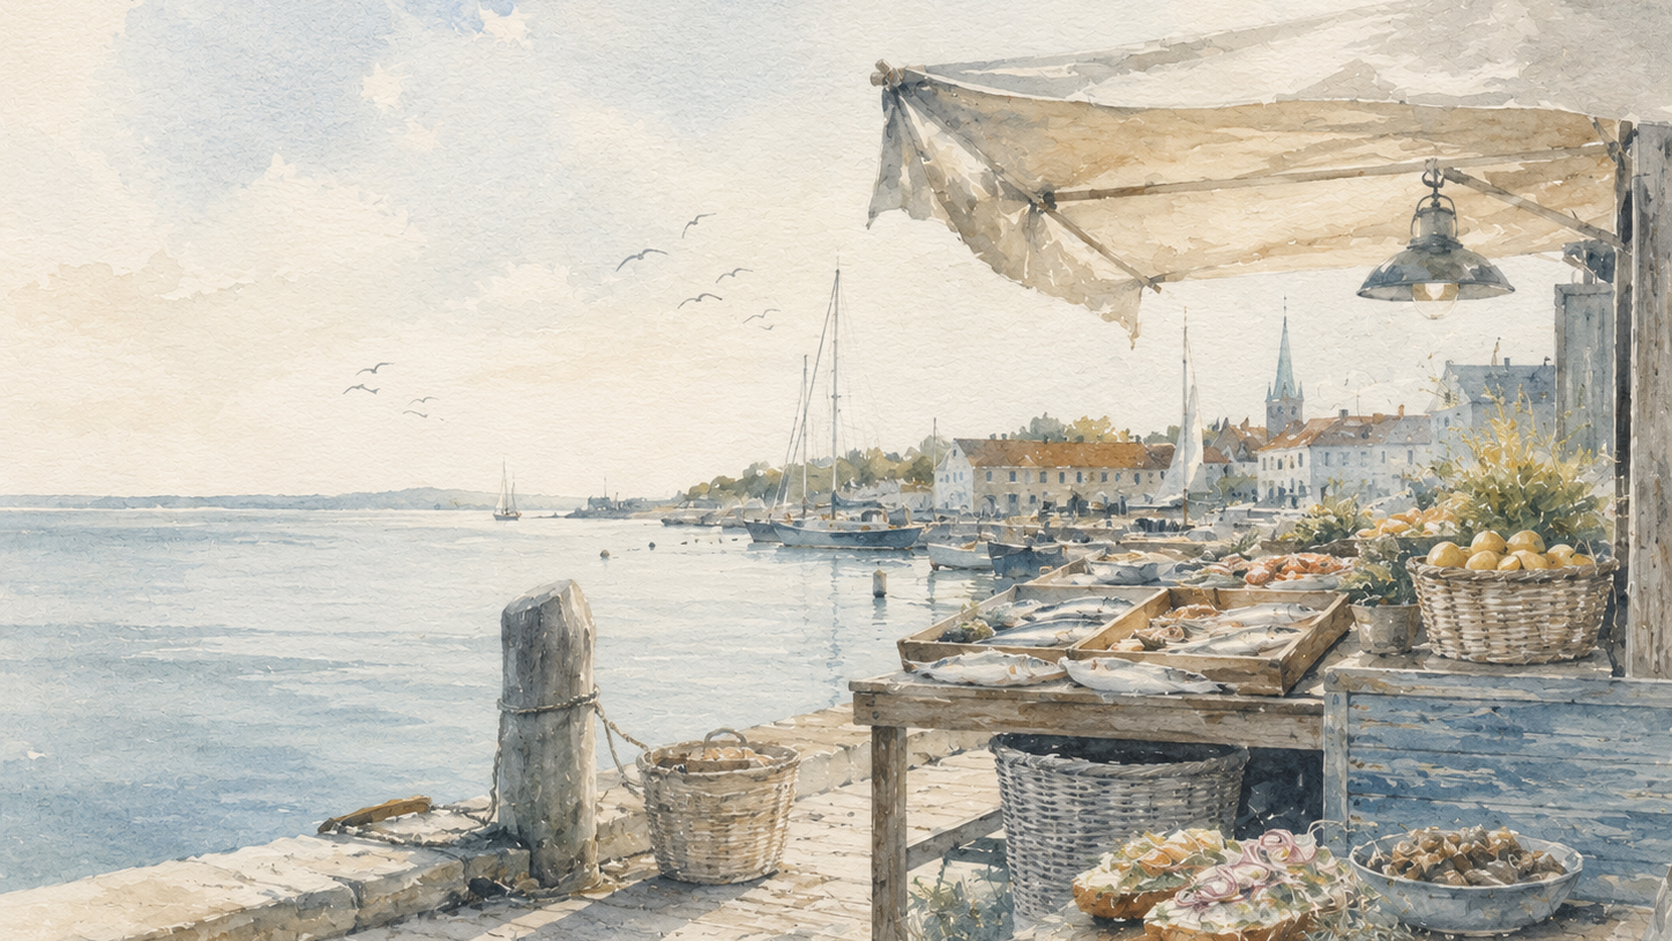
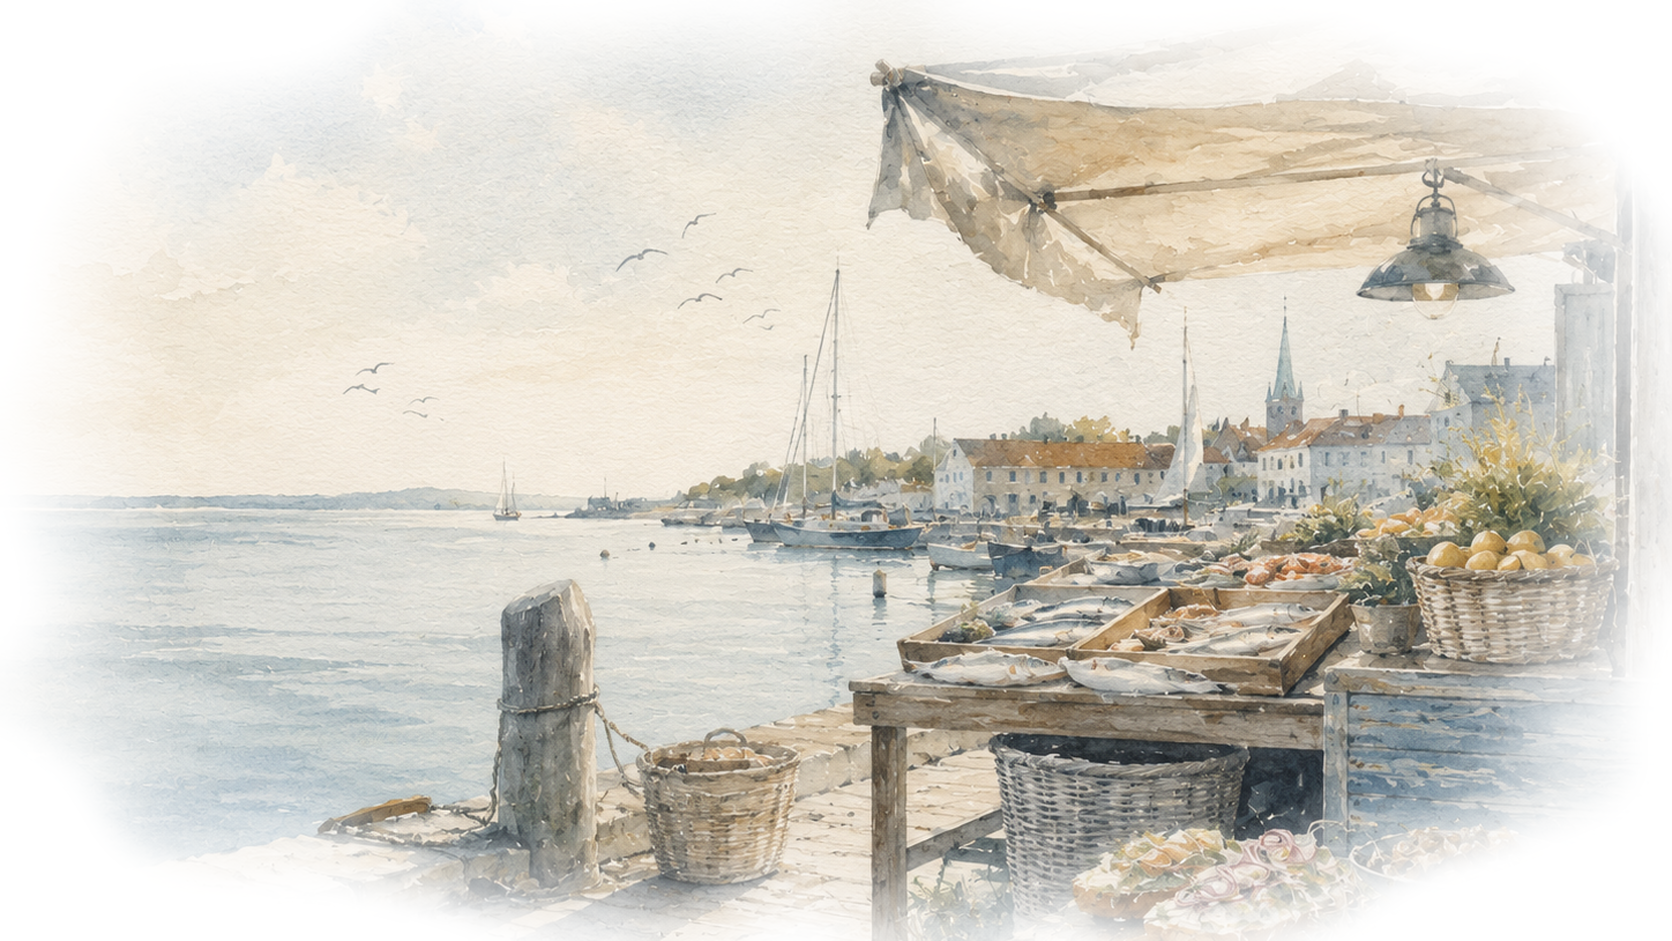
feat: add orientation memories and soft world imagery

diff --git a/src/App.svelte b/src/App.svelte
@@ -1688,15 +1688,12 @@
                   <header class="contents-head">
                     <div>
                       <p class="eyebrow">Orientierung</p>
-                      <h1>Inhaltsverzeichnis</h1>
+                      <h1>Orientierung</h1>
                       <p class="contents-deck">Deine Reise auf einen Blick. Ruhig geordnet, damit du schnell findest, was dich unterwegs begleitet.</p>
                     </div>
-                    {#if curatedAccentFor(editorialWorld?.id, 'contents')}
-                      <img class="curated-world-accent contents-accent" src={curatedAccentFor(editorialWorld?.id, 'contents') ?? ''} alt="" aria-hidden="true" />
-                    {/if}
                   </header>
 
-                  <div class="contents-list" aria-label="Inhaltsübersicht">
+                  <div class="contents-list" aria-label="Orientierung">
                     {#each sections as section}
                       {@const tocPages = section.pages.filter((page) => page.type !== 'cover' && page.type !== 'contents')}
                       {#if tocPages.length}
@@ -1722,7 +1719,7 @@
                   <header class="notes-head">
                     <div>
                       <p class="eyebrow">Erinnerungen</p>
-                      <h1>Notizen</h1>
+                      <h1>Erinnerungen</h1>
                       <p class="notes-deck">Ideen, Eindrücke und kleine Beobachtungen. Genug Struktur für Orientierung – und genug Freiheit für das, was unterwegs entsteht.</p>
                     </div>
                     {#if curatedAccentFor(editorialWorld?.id, 'notes')}
@@ -1730,9 +1727,9 @@
                     {/if}
                   </header>
 
-                  <div class="notes-layout" aria-label="Notizbereiche">
+                  <div class="notes-layout" aria-label="Erinnerungsbereiche">
                     <section class="notes-main" aria-label="Freie Notizen">
-                      <span>Freie Notizen</span>
+                      <span>Freie Erinnerungen</span>
                       <div class="notes-lines" aria-hidden="true"></div>
                     </section>
                     <aside class="notes-side">

diff --git a/src/styles/book-utility-pages.css b/src/styles/book-utility-pages.css
@@ -1,6 +1,6 @@
-/* Build 037 · Contents + Notes
-   Curated Accent is deliberately weaker than Curated Hero. It belongs to the
-   active Editorial World, never to project content, and yields space first. */
+/* Build 038 · Orientierung + Erinnerungen
+   Orientierung is deliberately image-free. Erinnerungen keeps one subordinate
+   world-owned Curated Accent. World imagery uses soft watercolor alpha edges. */
 .a5-page.contents-page,
 .a5-page.notes-page {
   background: #fff;
@@ -19,11 +19,13 @@
 .contents-head,
 .notes-head {
   display: grid;
-  grid-template-columns: minmax(0, 1fr) 104px;
   gap: 20px;
   align-items: start;
   margin-bottom: 20px;
 }
+
+.contents-head { grid-template-columns: minmax(0, 1fr); }
+.notes-head { grid-template-columns: minmax(0, 1fr) 104px; }
 
 .contents-head .eyebrow,
 .notes-head .eyebrow {
@@ -60,7 +62,6 @@
   filter: saturate(.88) contrast(.96);
 }
 
-.contents-accent { align-self: start; }
 .notes-accent { height: 76px; }
 
 .contents-list {
@@ -205,8 +206,7 @@
 
 .a5-page.notes-page .page-companion { max-height: 58px; }
 
-/* Contents is companion-free by contract. Curated Accent is the only world
-   image and remains clearly subordinate to navigation. */
+/* Orientierung is companion-free and image-free by contract. */
 .a5-page.contents-page .editorial-footer,
 .a5-page.notes-page .editorial-footer {
   position: relative;
@@ -215,5 +215,6 @@
 
 @media (max-height: 720px) {
   .curated-world-accent { height: 62px; }
-  .contents-head, .notes-head { grid-template-columns: minmax(0, 1fr) 94px; gap: 16px; margin-bottom: 14px; }
+  .contents-head { grid-template-columns: minmax(0, 1fr); gap: 16px; margin-bottom: 14px; }
+  .notes-head { grid-template-columns: minmax(0, 1fr) 94px; gap: 16px; margin-bottom: 14px; }
 }

diff --git a/src/lib/workspace.test.ts b/src/lib/workspace.test.ts
@@ -7,7 +7,7 @@ const pages: StudioPage[] = [
   { id: 'bergen', order: 10, type: 'destination', role: 'destination', title: 'Bergen', content: 'bergen.md', layout: 'destination-standard', journeyStage: 'bergen' },
   { id: 'light', order: 30, type: 'knowledge', role: 'journey_knowledge', title: 'Licht', content: 'light.md', layout: 'knowledge-light' },
   { id: 'on1', order: 50, type: 'workflow', role: 'workflow', title: 'ON1 Photo RAW', content: 'on1.md', layout: 'workflow-on1' },
-  { id: 'notes', order: 90, type: 'notes', role: 'notes', title: 'Notizen', content: 'notes.md', layout: 'notes-standard' },
+  { id: 'notes', order: 90, type: 'notes', role: 'notes', title: 'Erinnerungen', content: 'notes.md', layout: 'notes-standard' },
   { id: 'closing', order: 99, type: 'closing', role: 'closing_memory', title: 'Abschluss', content: 'closing.md', layout: 'closing-memory' }
 ];
 

diff --git a/src/lib/workspace.ts b/src/lib/workspace.ts
@@ -66,7 +66,7 @@ const sectionMeta: Record<WorkspaceSectionId, Omit<WorkspaceSection, 'pages'>> =
   memories: {
     id: 'memories',
     label: 'Erinnerungen',
-    description: 'Notizen und Abschluss'
+    description: 'Erinnerungen und Abschluss'
   }
 };
 
@@ -150,7 +150,7 @@ export function pageRoleLabel(role: PageRole | undefined): string {
     case 'destination': return 'Reiseziel';
     case 'journey_knowledge': return 'Reisebegleitung';
     case 'workflow': return 'Fotografie-Workshop';
-    case 'notes': return 'Notizen';
+    case 'notes': return 'Erinnerungen';
     case 'closing_memory': return 'Abschluss';
     default: return '–';
   }

diff --git a/src/lib/project.ts b/src/lib/project.ts
@@ -184,7 +184,7 @@ const previewCopy: Record<PageType, PreviewContent> = {
   },
   contents: {
     eyebrow: 'Orientierung',
-    heading: 'Inhaltsverzeichnis',
+    heading: 'Orientierung',
     body: 'Eine statische Vorschau der geplanten Seitenstruktur.'
   },
   planning: {
@@ -214,7 +214,7 @@ const previewCopy: Record<PageType, PreviewContent> = {
   },
   notes: {
     eyebrow: 'Field Notes',
-    heading: 'Notizen',
+    heading: 'Erinnerungen',
     body: 'Raum für Beobachtungen, Motive und Erinnerungen.'
   },
   closing: {

diff --git a/src/lib/curated-accents.ts b/src/lib/curated-accents.ts
@@ -15,7 +15,10 @@ const CURATED_ACCENTS_BY_WORLD: Partial<Record<string, Record<CuratedAccentKey, 
   baltic: BALTIC_CURATED_ACCENTS
 };
 
-export function curatedAccentFor(worldId: string | undefined, key: CuratedAccentKey): string | null {
+export function curatedAccentFor(
+  worldId: string | undefined,
+  key: CuratedAccentKey
+): string | null {
   if (!worldId) return null;
   return CURATED_ACCENTS_BY_WORLD[worldId]?.[key] ?? null;
 }

diff --git a/src-tauri/src/lib.rs b/src-tauri/src/lib.rs
@@ -905,12 +905,12 @@ fn create_nls_project(parent_path: String, title: String, editorial_world_id: St
     let pages = vec![
         starter_page("page-cover", 1, "cover", "front_matter", title, "content/pages/001-cover.md", "cover", None),
         starter_page("page-welcome", 2, "welcome", "front_matter", "Willkommen", "content/pages/002-welcome.md", "welcome", None),
-        starter_page("page-contents", 3, "contents", "front_matter", "Inhaltsverzeichnis", "content/pages/003-contents.md", "contents", None),
+        starter_page("page-contents", 3, "contents", "front_matter", "Orientierung", "content/pages/003-contents.md", "contents", None),
         starter_page("page-planning", 4, "planning", "journey_planning", "Reiseplanung", "content/pages/004-planning.md", "planning", None),
         starter_page("page-light", 10, "knowledge", "journey_knowledge", "Licht", "content/pages/010-light.md", "light", Some("photography_light")),
         starter_page("page-weather", 11, "knowledge", "journey_knowledge", "Wetter", "content/pages/011-weather.md", "weather", Some("travel_weather")),
         starter_page("page-workflow", 20, "workflow", "workflow", "Fotografie-Workshop", "content/pages/020-workflow.md", "workflow", None),
-        starter_page("page-notes", 30, "notes", "notes", "Notizen", "content/pages/030-notes.md", "notes", None),
+        starter_page("page-notes", 30, "notes", "notes", "Erinnerungen", "content/pages/030-notes.md", "notes", None),
         starter_page("page-closing", 40, "closing", "closing_memory", "Die Reise bleibt", "content/pages/040-closing.md", "closing", None),
     ];
     for page in &pages {

diff --git a/APPLY-DROPIN.md b/APPLY-DROPIN.md
@@ -1,48 +1,53 @@
-# APPLY DROP-IN — Northern Lines Studio Build 037
+# APPLY DROP-IN — Northern Lines Studio Build 038
 
-Build 037 implements the approved **Inhaltsverzeichnis** and **Notizen** grammar plus fixed world-specific **Curated Accents** for Fjord and Ostsee.
+Build 038 introduces **Orientierung**, **Erinnerungen** and the approved soft watercolor edge treatment for curated Fjord/Ostsee imagery.
 
 ## 1. Branch
 
 ```bash
 cd ~/Projekte/northern-lines-studio
-git checkout -b feat/build-037-contents-notes-curated-accents
+git checkout -b feat/build-038-orientation-memories-soft-world-imagery
 ```
 
 ## 2. Dry Run
 
 ```bash
 rsync -avn \
-  ~/Downloads/Northern-Lines-Studio-Build-037-Contents-Notes-Curated-Accents-DropIn/ \
+  ~/Downloads/Northern-Lines-Studio-Build-038-Orientation-Memories-Soft-World-Imagery-DropIn/ \
   ~/Projekte/northern-lines-studio/
 ```
 
-No intentional deletions are required.
+Build 038 intentionally removes the obsolete Orientation accent files. Remove them after the dry run:
+
+```bash
+rm -f ~/Projekte/northern-lines-studio/public/design-library/worlds/fjord/curated-accents/contents.png
+rm -f ~/Projekte/northern-lines-studio/public/design-library/worlds/baltic/curated-accents/contents.png
+```
 
 ## 3. Apply
 
 ```bash
 rsync -av \
-  ~/Downloads/Northern-Lines-Studio-Build-037-Contents-Notes-Curated-Accents-DropIn/ \
+  ~/Downloads/Northern-Lines-Studio-Build-038-Orientation-Memories-Soft-World-Imagery-DropIn/ \
   ~/Projekte/northern-lines-studio/
 ```
 
-## 4. Build-specific Consistency Gate
+## 4. Build-specific gate
 
 ```bash
 cd ~/Projekte/northern-lines-studio
-pnpm consistency:build-037-utility-pages
+pnpm run consistency:build-038
 ```
 
 Expected:
 
 ```text
-Build 037 Contents & Notes Consistency Gate: PASS
+Build 038 Orientation & Memories Consistency Gate: PASS
 ```
 
-`PASS` must appear green.
+`PASS` must appear in green.
 
-## 5. Full Gates
+## 5. Full gates
 
 ```bash
 pnpm consistency
@@ -53,50 +58,46 @@ cargo test --manifest-path src-tauri/Cargo.toml
 git diff --check
 ```
 
-## 6. Install macOS App
+## 6. Build & install macOS app
 
 ```bash
 cd ~/Projekte/northern-lines-studio
 ./scripts/install-macos-app.sh
 ```
 
-Target:
+Expected target:
 
 ```text
 /Applications/Northern Lines Studio.app
 ```
 
-## 7. Real-world / Visual Test
+## 7. Visual real-world test — STOP/GO
 
-Test **both Fjord and Ostsee**.
+### Orientierung
+1. Open Fjord → **Orientierung**.
+2. Confirm there is **no image** on this page.
+3. Confirm title, groups and page numbers are calm and fully readable.
+4. Switch to Ostsee: World typography/accent changes, but no image appears.
 
-### Inhaltsverzeichnis
+### Erinnerungen
+1. Open **Erinnerungen** in Fjord.
+2. Confirm the Curated Accent has a soft watercolor edge and opens into white space.
+3. Confirm the writing area remains the dominant surface.
+4. Switch to Ostsee and confirm the world-owned image changes while using the same soft-edge treatment.
 
-- page surface is literal white;
-- page list is automatically derived from the current Travelbook;
-- section hierarchy and page numbers remain the visual priority;
-- Curated Accent appears small in the upper-right area and is clearly subordinate;
-- there is no image control in the Inspector;
-- no Companion appears on Contents;
-- Footer stays protected.
+### Curated Heroes
+1. Check one Interest Page and the Fotografie-Workshop in Fjord and Ostsee.
+2. Confirm the previously approved size/flow is unchanged.
+3. Confirm Ostsee no longer reads as a hard rectangular image tile; its edge language matches Fjord.
+4. Confirm Companion and Footer are unchanged.
 
-### Notizen
+**STOP** on clipping, hard tile edges, wrong visible page names, or any Companion/Footer displacement.  
+**GO** only after visual approval.
 
-- page surface is literal white;
-- large main writing area remains dominant;
-- secondary areas are exactly `Schnellnotiz`, `Ideen`, `Skizze`;
-- Curated Accent remains small and secondary;
-- Companion and Footer do not overlap any writing area;
-- there is no image control in the Inspector.
-
-Switch Worlds and confirm only the accent expression changes; structure and semantics remain identical.
-
-**Wait for visual approval before merge.**
-
-## 8. Commit & Push
+## 8. Commit & push
 
 ```bash
 git add .
-git commit -m "feat: add contents and notes curated accents"
-git push -u origin feat/build-037-contents-notes-curated-accents
+git commit -m "feat: add orientation memories and soft world imagery"
+git push -u origin feat/build-038-orientation-memories-soft-world-imagery
 ```

diff --git a/docs/BUILD-038-ORIENTATION-MEMORIES-SOFT-WORLD-IMAGERY.md b/docs/BUILD-038-ORIENTATION-MEMORIES-SOFT-WORLD-IMAGERY.md
@@ -1,0 +1,31 @@
+# Build 038 — Orientierung & Erinnerungen · Soft World Imagery
+
+Build 038 converts the two utility pages from technical labels into Northern Lines Travel Language and corrects their image grammar.
+
+## Orientation
+
+The former **Inhaltsverzeichnis** is now **Orientierung** everywhere the traveler sees the page. It is deliberately image-free. Its role is navigation, so typography, section grouping and page numbers remain the complete visual hierarchy.
+
+Internal persistence keys (`contents`) remain unchanged for format compatibility.
+
+## Memories
+
+The former **Notizen** page is now **Erinnerungen**. The established writing grammar remains: a large free area plus Schnellnotiz, Ideen and Skizze. One fixed world-owned Curated Accent remains allowed because atmosphere is useful here, but writing capacity remains authoritative.
+
+Internal persistence keys (`notes`) remain unchanged for format compatibility.
+
+## Soft world imagery
+
+Curated world imagery no longer ends in a hard rectangular tile. Fjord and Ostsee hero assets and the Erinnerungen accents use baked transparent, softly feathered watercolor edges. This is an asset treatment, not a user option.
+
+The image treatment must preserve:
+
+- literal white page surface;
+- open white space around the artwork;
+- no border, card or tile treatment;
+- the same Hero grammar and dimensions already approved for Interest and Workshop pages;
+- Companion, Footer and Content Fit priority.
+
+## Compatibility
+
+No `.nls` migration is required. Existing page type and role identifiers remain unchanged.

diff --git a/docs/PRODUCT-DNA.md b/docs/PRODUCT-DNA.md
@@ -2110,3 +2110,11 @@ Curated Heroes sind feste Bestandteile einer Editorial World, keine Nutzer-Asset
 - Contents remains typography/navigation first. Notes remains writing-space first.
 - At capacity pressure, Curated Accent yields before navigation, writing space, Companion or Footer.
 - Physical content-page surface stays literal `#FFFFFF`.
+
+## Build 038 — Orientierung, Erinnerungen & Soft World Imagery
+
+- User-facing `Inhaltsverzeichnis` becomes **Orientierung**. The page is image-free by contract; navigation is the content.
+- User-facing `Notizen` becomes **Erinnerungen**. Its large writing area remains primary; one fixed world-owned Curated Accent may support atmosphere.
+- Internal `.nls` identifiers remain `contents` and `notes` for compatibility.
+- Curated world imagery must not read as a hard rectangular card. Fjord and Ostsee use the same softly feathered watercolor-edge treatment while retaining their own World Expression.
+- White space is part of the World language: the image opens into the literal white page rather than closing itself inside a box.

diff --git a/docs/adr/ADR-038-ORIENTATION-MEMORIES-AND-SOFT-WORLD-IMAGERY.md b/docs/adr/ADR-038-ORIENTATION-MEMORIES-AND-SOFT-WORLD-IMAGERY.md
@@ -1,0 +1,20 @@
+# ADR-038 — Orientierung, Erinnerungen and Soft World Imagery
+
+## Decision
+
+Northern Lines uses Travel Language for the two utility pages:
+
+- `contents` is presented as **Orientierung**;
+- `notes` is presented as **Erinnerungen**.
+
+Orientation is image-free by contract. Memories may retain one subordinate world-owned Curated Accent.
+
+Curated Fjord and Ostsee imagery uses a shared soft watercolor-edge treatment. World identity comes from the image content and world palette, not from a different geometric framing language.
+
+## Consequences
+
+- internal persistence identifiers remain stable;
+- no `.nls` migration;
+- no image picker or user control is introduced;
+- white space becomes part of the image composition;
+- hard rectangular image tiles are excluded from this grammar.

diff --git a/docs/builds/BUILD-038-RELEASE-NOTES.md b/docs/builds/BUILD-038-RELEASE-NOTES.md
@@ -1,0 +1,17 @@
+# Build 038 — Release Notes
+
+## Orientierung
+
+The former user-facing **Inhaltsverzeichnis** is now **Orientierung**. The page is intentionally image-free and remains a calm typographic navigation surface.
+
+## Erinnerungen
+
+The former user-facing **Notizen** page is now **Erinnerungen**. The established writing structure remains intact: one dominant free area plus Schnellnotiz, Ideen and Skizze.
+
+## Soft World Imagery
+
+Fjord and Ostsee Curated Heroes now share the same soft watercolor-edge treatment. The Erinnerungen Curated Accent uses the same open, feathered edge language. Hard rectangular image tiles are no longer part of this grammar.
+
+## Compatibility
+
+No `.nls` migration. Internal page identifiers `contents` and `notes` remain unchanged.
